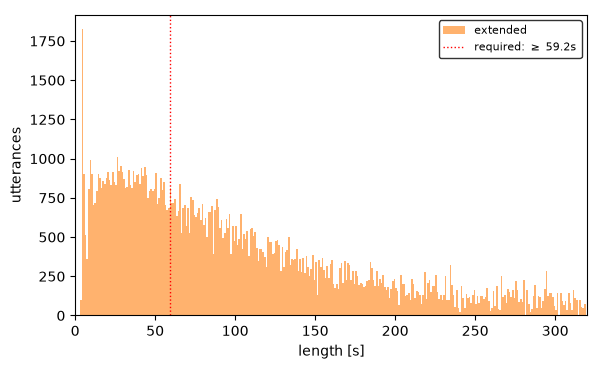
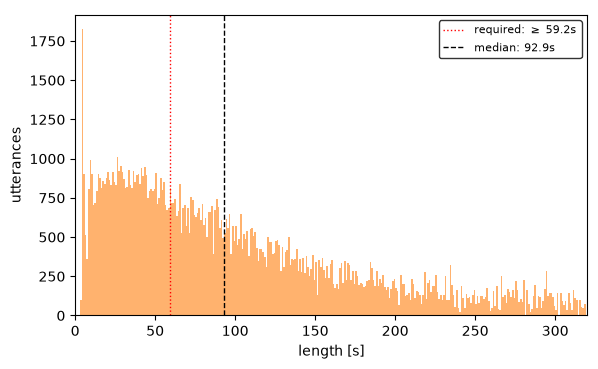
More details on the SST experiment

Changed region(s): [[0.3612, 0.0596, 0.3913, 0.8347], [0.7224, 0.0596, 0.9632, 0.1491]]

diff --git a/blog/2026-11-12-state-of-sst-exploitation-in-dnns.md b/blog/2026-11-12-state-of-sst-exploitation-in-dnns.md
@@ -14,32 +14,32 @@ recordings made the task of matching a recording with its corresponding speaker 
 they showed that the presence of temporal information was _the_ distinguishing factor for humans to become
 able to solve the task even under challenging conditions https://doi.org/10.1145/1631272.1631300.
 
-About a decade later, Deep Neural Networks (DNNs) revolutionized speech recognition algorithms, but
-they were still lacking human performance under challenging conditions.
+About a decade later, Deep Neural Networks (DNNs) revolutionized speech recognition algorithms but were
+still lacking human performance under challenging conditions.
 
 This circumstance motivated Daniel Neururer and colleagues in 2022 to study whether DNNs exploit Supra-Segmental Temporal information
 (SST; "information that is contained in the trajectory over many frames" @https://doi.org/10.1016/j.patrec.2024.03.016).
-Surprisingly, they found that DNNs do not exploit such information, albeit their architectures would allow them to do so.
+Surprisingly, they found that DNNs do not exploit such information, albeit their architecture allows them to do so.
 
-Instead, they showed that the tested neural networks exploit only Frame-Based[^fba] Acoustic information (FBA) for the speaker
-identification task. Neururer et al. hypothesized that DNNs, despite architecturally capable, don't have to exploit
-the more complex supra-segmental temporal information to achieve good results: The task was simply not challenging
-enough for them, so they got away with a shortcut. Neururer et al. coined this behavior of neural networks as "Deep Cheating".
+Instead, Neururer et al. showed that the tested neural networks exploit only Frame-Based[^fba] Acoustic information (FBA)
+to solve a speaker identification task. The authors hypothesized that DNNs, despite architecturally capable, don't have
+to exploit the more complex supra-segmental temporal information to achieve good results: The task was simply not challenging
+enough for them, so they got away with a shortcut. This behavior of artificial neural networks was coined "Deep Cheating".
 
-[^fba]: A frame is a short segment of audio, typically 10-30ms.
+[^fba]: A frame is a short segment of audio, typically 10 - 30ms.
 
 ## Problem
 
 Today, State Of The Art (SOTA) speech models have way more parameters and are trained on millions of hours of audio
-recordings using a wide range of datasets as well as an array of data augmentation techniques. That said, these models had to cope
-with much more variation during training in the hope that they generalize better to unseen data, including recordings
-under challenging conditions. This bears the question, if the findings from Neururer et al. are still valid.
+recordings using a wide range of datasets as well as a wide array of data augmentation techniques. That said, these
+models had to cope with much more variation during training in the hope that they generalize better to unseen data,
+including recordings under challenging conditions. This bears the question, if the findings from Neururer et al. are still valid.
 
-The original experiment conducted by the authors of Neururer et al. would require us to re-train each model
+The original experiment conducted would require us to re-train each model
 on shuffled audio data. Due to the bigger size of SOTA models and the large amount of data they are trained on, this
 is not only a challenging task, but also an expensive one.
 
-:::{table} [ResNet34](https://huggingface.co/Wespeaker/wespeaker-voxceleb-resnet34-LM) and [w2v-BERT 2.0](https://huggingface.co/facebook/w2v-bert-2.0) are two examples of speech models available in 2026.
+:::{table} [ResNet34](https://huggingface.co/Wespeaker/wespeaker-voxceleb-resnet34-LM) and [w2v-BERT 2.0](https://huggingface.co/facebook/w2v-bert-2.0) are two speech models available in 2026.
 
 |                      | Number of parameters |   Training data   |
 |:---------------------|:--------------------:|:-----------------:|
@@ -47,8 +47,8 @@ is not only a challenging task, but also an expensive one.
 | w2v-BERT 2.0         |     600 million      | 4.5 million hours |
 :::
 
-With that said, we'll present a variation of the original experiment in this writeup, which allows determining
-whether a model makes use of temporal information – without the need of re-training.
+That said, we'll present a variation of the original experiment in this article, which allows determining
+whether a model makes use of temporal information without the need of re-training.
 
 ## Method
 
@@ -67,19 +67,15 @@ _Left:_ All blocks are at their original position. _Right:_ The individual block
 
 This experimental setup works well if the same architecture is trained from scratch twice (once for each input regime).
 However, it doesn't give us the desired answer without re-training: If we naively compare the performance of the original vs. the shuffled input
-using a model which has only ever seen original data, its prediction error will be confounded by the simple fact that
-the model has never seen the shuffled input before (ouf-of-distribution error). Because the prediction error is confounded,
-we cannot say anything about the role played by the removed temporal information.
+using a model which has only ever been trained original data, its prediction error will be confounded by the simple fact that
+the model has never seen the shuffled input before (ouf-of-distribution error). Therefore, we cannot say anything about the role played
+by the removed temporal information.
 
-Therefore, we took a closer look at the differences between the original and the shuffled data:
 @{mfcc} shows that shuffling causes discontinuities at the block boundaries.
-To compensate for those in for the original ordered input, we need to simulate the discontinuities. This will allow us to
-provide the same amount of consecutive information per speaker to the model for both input regimes and serves as a sanity
-check whether the model is trying to integrate temporal information across block boundaries – or if it strictly uses
-block local information.
-
-To achieve this, we introduce gaps between the selected blocks in the original audio signal (@mfcc-gapped-blocks), and we
-make sure that the newly added discontinuities in the original-ordered input are similar to the ones of the shuffled input.
+To compensate for those in for the original ordered input, we need to add these discontinuities there as well. Such an augmentation
+allows us to get rid of the confounding factor related to discontinuities in the shuffled input. To introduce these discontinuities,
+we introduce gaps between blocks of the original audio signal (@mfcc-gapped-blocks). The gap width is chosen, such that the
+resulting discontinuity distribution is similar to the discontinuity distribution of the shuffled input.
 
 ::::{figure}
 :label: mfcc-gapped-blocks
@@ -91,9 +87,8 @@ _Left:_ Selected blocks in green with a gap in between. _Middle:_ Selected (gree
 _Right:_ Selected (green) blocks in random order.
 ::::
 
-As mentioned, to attribute the change in model performance to missing temporal information, the discontinuities in the originally
-ordered input have to be similar to the ones of the shuffled input. We ensure this by choosing a gap width between the blocks,
-which yields a similar join distance distribution (overlap $\ge 98 \%$) for both input regimes (@gap-joint-distribution).
+We ensure similarity of the join discontinuities by choosing a gap with a similar join distance distribution 
+(overlap $\ge 98 \%$) for both, original and shuffled inputs (@gap-joint-distribution).
 
 :::{figure} ../.gitbook/assets/sst-fba-gap-joint-distribution.png
 :label: gap-joint-distribution
@@ -104,10 +99,9 @@ Block join distance distributions for one specific block width (~ 80ms) and diff
 At this point it's worth mentioning that these join distance distributions depend on the dataset ([VoxCeleb1-H](https://www.robots.ox.ac.uk/~vgg/data/voxceleb/) in our case),
 the **gap width** _and_ the **block width**.
 
-As we want to measure an approximate lower bound for the amount of temporal information
-exploited, we have to make sure that the join distance distributions are not only similar within one block size, but also
-across evaluated block sizes. So we did the same measurement across the evaluated block sizes, which yielded a required minimal gap width of 
-590ms (@gap-join-dist-similarities).
+Therefore, make sure that the join distance distributions are not only similar within one block width, but
+across all evaluated block widths. So we did the same measurement across all evaluated block sizes, which yielded
+a required minimal gap width of 590ms (@gap-join-dist-similarities).
 
 :::{figure} ../.gitbook/assets/sst-fba-join-dist-similarities.png
 :label: gap-join-dist-similarities
@@ -116,9 +110,8 @@ The convergence of join distance distributions across the evaluated block widths
 to be used in our experiment.
 :::
 
-Notice that, linguistically speaking, 590ms is quite a large gap (@speech-temporal-building-blocks). That's why we don't expect the
-model to integrate meaningful temporal information across the gaps. Instead, we expect the blocks to be roughly independent. Therefore, the block
-width gives us an indication for the temporal information the model pays attention to.
+Linguistically speaking, 590ms is quite a large time span (@speech-temporal-building-blocks). That's why we don't expect the
+model to integrate meaningful temporal information across the gaps. Instead, we expect the blocks to be roughly independent.
 
 :::{figure} ../.gitbook/assets/speech-temporal-building-blocks.png
 :label: speech-temporal-building-blocks
@@ -126,10 +119,13 @@ width gives us an indication for the temporal information the model pays attenti
 Approximate durations of the temporal building blocks in speech.
 :::
 
-In other words: If the findings of @https://doi.org/10.1016/j.patrec.2024.03.016 are still valid today, we'd expect the Equal Error Rate (EER)
+The independence implies that the block width gives us a rough indication of the temporal information the model exploits:
+If the findings of @https://doi.org/10.1016/j.patrec.2024.03.016 are still valid today, we'd expect the Equal Error Rate (EER)
 for all supra-segmental blocks[^supra-segmental-blocks] to be equal. On the other hand, an increase in EER
-due to a decrease in block width indicates that the model tries to integrate more temporal information than available within one block
-(@mfcc-fixed-gap-blocks).
+due to a decrease in block width indicates that the model tries to exploit temporal information beyond a single block
+and fails to do so (@mfcc-fixed-gap-blocks).
+
+[^supra-segmental-blocks]: Blocks longer than one phoneme (i.e. longer than 150 ms; a phoneme is a synonym for a segment)
 
 ::::{figure}
 :label: mfcc-fixed-gap-blocks
@@ -144,25 +140,44 @@ Within each panel, the bottom left shows the selected blocks in original order a
 ### Preparing the Dataset
 
 Before we evaluate the SST exploitation of the [ResNet34](https://huggingface.co/Wespeaker/wespeaker-voxceleb-resnet34-LM) and [w2v-BERT 2.0](https://huggingface.co/facebook/w2v-bert-2.0) models on the
-[VoxCeleb1-H](https://www.robots.ox.ac.uk/~vgg/data/voxceleb/) dataset, there is one important caveat of our experiment we'll need to take care of:
+[VoxCeleb1-H](https://www.robots.ox.ac.uk/~vgg/data/voxceleb/) dataset, there is one important precondition of our experiment that we'll need to take care of:
 We have to provide the same total amount of FBA information per speaker to the model, independently of the
-block size. Otherwise, the model might perform worse on smaller blocks simply due to the lack of total information available.
+block size. Otherwise, the model might perform worse on smaller blocks simply because it has less information available.
 
-However, for any fixed total length FBA information window $l_w$, decreasing
-the block width $l_b$ implies the total number of blocks increases: $n_b = l_w / l_b$ and so does the total number of gaps: $n_g = n_b - 1$.
-As we are going to use a fixed gap length $l_g$, the total audio $l_a$ required grows with the number of gaps $n_g$ (for a visualization of this effect, see @mfcc-fixed-gap-blocks):
+But for any fixed length information window $l_w$, decreasing
+the block width $l_b$ means the total number of blocks $n_b$ increases and so does the total number of gaps $n_g$
+@eq-total-number-of-blocks-and-gaps.
+
+:::{math}
+:label: eq-total-number-of-blocks-and-gaps
+\begin{aligned}
+n_b &= l_w / l_b \\
+n_g &= n_b - 1
+\end{aligned}
+:::
+
+An increasing total number of gaps $n_g$ has two side effects:
+
+1. The total length of required audio $l_a$ grows proportionally with the number of gaps $n_g$,
+   due to the fixed gap length $l_g$ (for a visualization, see @mfcc-fixed-gap-blocks):
 
 :::{math}
 :label: eq-total-length-of-audio
 
-l_a = l_w + l_g \cdot (l_w / l_b - 1) = l_w + l_g \cdot (n_b - 1) = l_w + l_g \cdot n_g
+l_a  = l_w + l_g \cdot n_g
 :::
 
-In our experiment, the smallest block is $l_b = 20ms$ and we are using a fixed length FBA information window of $l_w = 1.96 s$.
-Using the fixed gap length of $l_g = 590 ms$ identified in our measurements (@gap-join-dist-similarities), the experiment
-requires $59.19$ of audio per speaker.
+2. The total number of joins grows as blocks get smaller - preventing us from directly comparing 
+   the models' performance between different block sizes.
 
-Unfortunately, out of the $137'924$ utterances in VoxCeleb1-H $\approx 99.97 \%$ are shorter than $59.19$. Only 46 utterances would be long enough for our experiment (@vox1-h-length-dist).
+#### Augmentation for required audio length
+
+In our experiment, the smallest block is $l_b = 20ms$ and we are using a fixed window of $l_w = 1.96 s$.
+In our measurements (@gap-join-dist-similarities), we found a gap length of $l_g = 590 ms$ to suit our requirements.
+Therefore, our experiment requires $l_a = 59.19s$ of audio per speaker.
+
+Unfortunately, out of the $137'924$ utterances in VoxCeleb1-H approximately $99.97 \%$ are shorter than $59.19s$.
+Only 46 utterances would be long enough for our experiment (@vox1-h-length-dist).
 
 :::{figure} ../.gitbook/assets/sst-vox1-h-utterance-length-dist.png
 :label: vox1-h-length-dist
@@ -170,9 +185,12 @@ Unfortunately, out of the $137'924$ utterances in VoxCeleb1-H $\approx 99.97 \%$
 Utterance length distribution of VoxCeleb1-H
 :::
 
-The good news is that in the VoxCeleb1-H dataset, a subset of all utterances are segments of the same YouTube video and speaker. This enables us join multiple
-utterances of one speaker from the same video together – ending up with longer, but fewer utterances per speaker. @vox1-h-joined-length-dist shows the distribution of the
-utterances after they have joined together per video and speaker: 
+The good news is that in the VoxCeleb1-H dataset, the utterances are segments of YouTube videos. This
+allows us to extend each utterance of the trial list with the audio around it: we append all other
+utterances of the same speaker and video, in file name order. Every utterance therefore keeps its
+place in the trial list, but now comes with up to several minutes of audio from the same speaker and
+session. The number of utterances stays the same ($137'924$), while the median length grows from $6.5s$ to $92.9s$
+(@vox1-h-joined-length-dist).
 
 :::{figure} ../.gitbook/assets/sst-vox1-h-joined-utterance-length-dist.png
 :label: vox1-h-joined-length-dist
@@ -180,30 +198,30 @@ utterances after they have joined together per video and speaker:
 Joined utterance length distribution of VoxCeleb1-H
 :::
 
+Of all extended utterances, $90'962$ or $65.95 \%$ now provide the required minimal length of $59.19s$.
+Since every trial compares two utterances, a trial is only usable if both of its extended
+utterances are long enough. In addition, those utterances must come from different videos: their
+extended utterances would otherwise consist of the same audio, which would make the trial trivial.
 
+This leaves us with $218'289$ of the $550'894$ VoxCeleb1-H trials ($99'121$ target and $119'168$
+non-target trials), covering $90'438$ utterances of $1'178$ out of $1'190$ speakers. To keep the
+results comparable across block widths, we evaluate all of them on this same set of trials.
 
-back together and thus ending up with a total of $$ utterances of the same speakers. We join the individual utterances of one vidoe, based on the lexicographical order of the
-files they are stored in.
+#### Adjustment for increasing number of block joins
 
-there are multiple utterances of the same speaker based on the same video recording.
+Equation @eq-total-number-of-blocks-and-gaps leaves us with a dilemma: we cannot keep both the
+amount of FBA information and the number of joins constant across block widths. We therefore address
+the joins in two complementary ways:
 
-and with this, the total length of the recording required increases proportionally.
-For our experiment, we'll provide a total of 2 seconds of FBA information per speaker. The length of the smallest block is 20 ms. Accounting for 2s worth of
-audio means we'll have to provide $2s / 20ms = 100 blocks$ and $100 - 1 blocks = 99 gaps$. With a gap length of 590 ms, this results in a total
-recording length per speaker required of $2s + 99 * 590ms = 60.41s$.
+First, within each block width, the originally ordered (GO) and shuffled (GS) inputs consist of
+exactly the same blocks. Hence, they contain the same number of joins and join discontinuities of the same
+distribution thanks to the gap of at least $590 ms$ (@gap-join-dist-similarities). Any difference between
+GO and GS at a given block width can therefore not be attributed to the joins.
 
-
-
-
-
-on .... utterances of the
- dataset.
-
-
-
-137'924 utterances, scored 218289 trials, 2s worth of information from the middle of the extended utterance.
-
-[^supra-segmental-blocks]: Blocks longer than one phoneme (i.e. longer than 150 ms; a phoneme is a synonym for a segment)
+Second, to compare across block widths, we add a control condition with a fixed number of blocks: $8$ 
+blocks of width $l_b$ each, i.e. $7$ joins regardless of the block width. If the EER still increases with
+decreasing block width under this condition, the increase is caused by the shorter blocks, not by
+the larger number of joins.
 
 ## Results for two SOTA models
 
@@ -278,7 +296,6 @@ For comparison, we run the same experiment as above for the models used in @http
 
 DET curves and EERs for the models used in @https://doi.org/10.1016/j.patrec.2024.03.016.
 :::
-
 
 ## Conclusions
 
